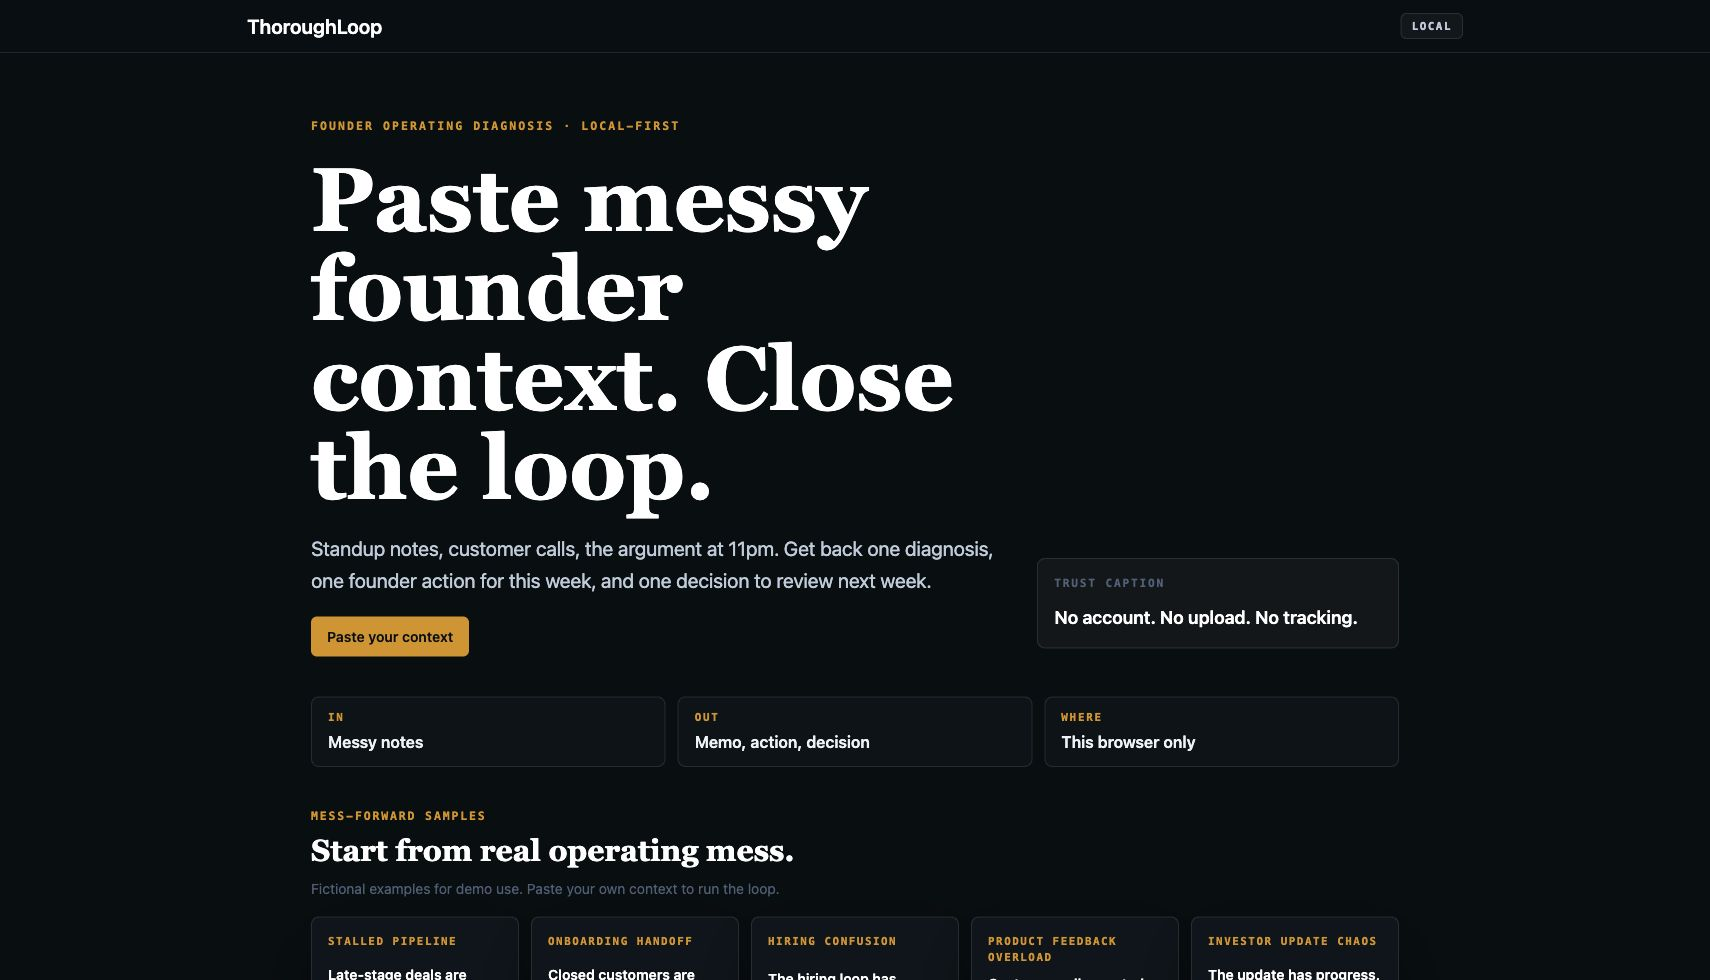
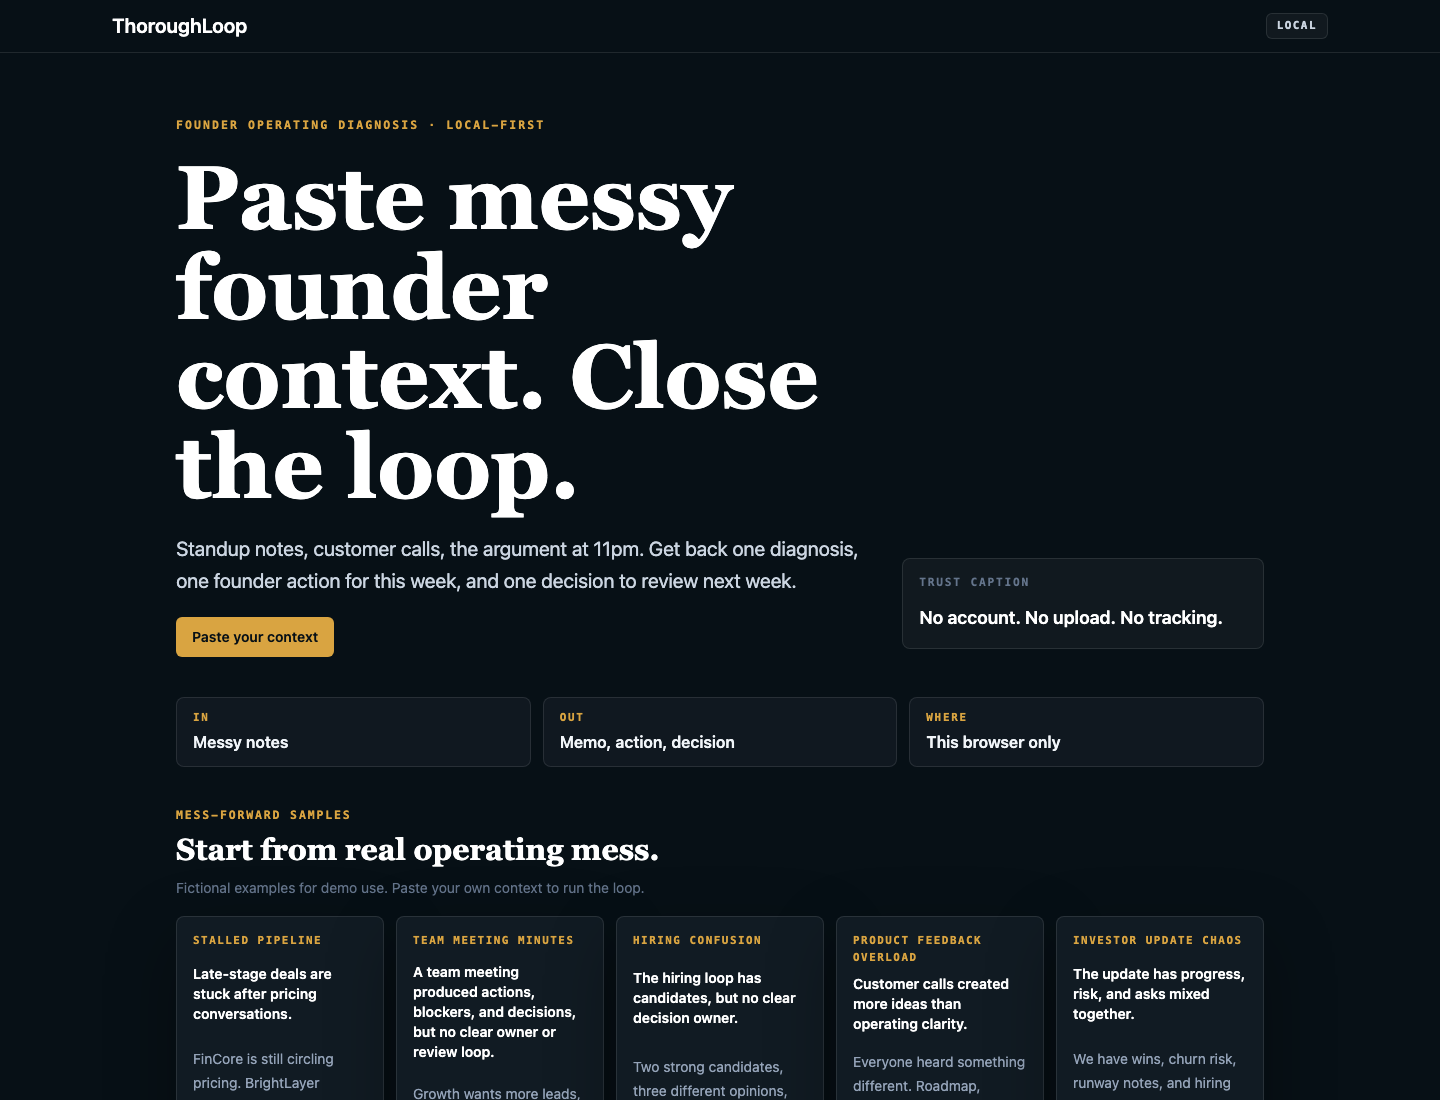
feat: sharpen meeting notes input and evidence copy
Sharpen ThoroughLoop’s manual meeting-notes input path and make deterministic evidence wording less mechanical.

* Rename the meeting-notes source label to Meeting minutes or call notes
* Clarify manual paste helper and placeholder copy for meeting minutes, call notes, decisions, blockers, owners, open questions, follow-ups, and review points
* Rework the meeting sample into fictional team meeting minutes
* Replace internal-sounding evidence labels with operating language such as Operating signals, Named context, and Risk signals
* Add clearer fallback evidence wording for thin notes
* Update copyable memo evidence formatting
* Update core and e2e tests
* Update source-aware context docs
* Refresh walkthrough screenshots
* Preserve local-first, manual-paste, no-integration product boundaries

diff --git a/apps/web/e2e/core-loop.spec.ts b/apps/web/e2e/core-loop.spec.ts
@@ -3,13 +3,19 @@ import { expect, test, type Page } from "@playwright/test";
 const messyFounderContext =
   "FinCore Labs has been stuck in negotiation for 21 days after a pricing concern. BrightLayer AI has no reply after proposal for 12 days. Northstar Ops completed demo but is waiting for review. Founder follow-up is slipping and proposal-stage deals need attention this week.";
 
-async function expectTextOrder(page: Page, firstText: string, secondText: string) {
+async function expectSectionOrder(page: Page, firstTestId: string, secondTestId: string) {
   const order = await page.evaluate(
-    ({ firstText, secondText }) => {
-      const text = document.body.innerText;
-      return text.indexOf(firstText) !== -1 && text.indexOf(secondText) !== -1 && text.indexOf(firstText) < text.indexOf(secondText);
+    ({ firstTestId, secondTestId }) => {
+      const first = document.querySelector(`[data-testid="${firstTestId}"]`);
+      const second = document.querySelector(`[data-testid="${secondTestId}"]`);
+
+      if (!first || !second) {
+        return false;
+      }
+
+      return Boolean(first.compareDocumentPosition(second) & Node.DOCUMENT_POSITION_FOLLOWING);
     },
-    { firstText, secondText }
+    { firstTestId, secondTestId }
   );
 
   expect(order).toBe(true);
@@ -27,6 +33,16 @@ test("founder can complete the ThoroughLoop browser loop", async ({ page }) => {
   await expect(page.getByText("Paste the relevant Notion notes, decisions, or project context.")).toBeVisible();
   await expect(page.getByText("Manual import only. ThoroughLoop does not connect to external tools yet.")).toBeVisible();
   await expect(page.getByText("Public demo note: use fictional or sanitized context. Avoid confidential production data.")).toBeVisible();
+  await page.getByLabel("Where is this context coming from?").selectOption("meeting_notes");
+  await expect(
+    page.getByText(
+      "Paste meeting minutes, call notes, or transcript-style notes. ThoroughLoop will look for actions, decisions, blockers, owners, and follow-up points."
+    )
+  ).toBeVisible();
+  await expect(page.getByTestId("messy-context-input")).toHaveAttribute(
+    "placeholder",
+    "Paste meeting minutes, call notes, decisions, blockers, owners, open questions, follow-ups, or next-review points."
+  );
   await page.getByTestId("context-source-select").selectOption("slack");
   await expect(page.getByText("Paste the relevant Slack messages or thread summary.")).toBeVisible();
   await page.getByTestId("messy-context-input").fill(messyFounderContext);
@@ -40,9 +56,9 @@ test("founder can complete the ThoroughLoop browser loop", async ({ page }) => {
   await expect(page.getByTestId("primary-action-review")).toBeVisible();
   await expect(page.getByTestId("short-diagnosis")).toBeVisible();
   await expect(page.getByTestId("supporting-context")).toBeVisible();
-  await expectTextOrder(page, "This week's action", "Supporting context");
-  await expectTextOrder(page, "Decision to review next week", "Supporting context");
-  await expectTextOrder(page, "Short diagnosis", "Supporting context");
+  await expectSectionOrder(page, "primary-action-review", "short-diagnosis");
+  await expectSectionOrder(page, "primary-action-review", "supporting-context");
+  await expectSectionOrder(page, "short-diagnosis", "supporting-context");
 
   await page.locator("[data-testid='supporting-context'] summary").click();
   await expect(page.getByText("Why this is the bottleneck")).toBeVisible();

diff --git a/packages/core/test/core-logic.test.ts b/packages/core/test/core-logic.test.ts
@@ -5,6 +5,7 @@ import {
   createDiagnosis,
   CONTEXT_SOURCE_OPTIONS,
   DEFAULT_CONTEXT_SOURCE_ID,
+  contextSourceForId,
   contextSourceLabelForId,
   extractCompanyOrDealNames,
   extractRiskSignals,
@@ -109,11 +110,21 @@ describe("context source metadata", () => {
       "Notion page or workspace notes",
       "CRM or sales pipeline notes",
       "Customer feedback",
-      "Meeting notes",
+      "Meeting minutes or call notes",
       "Product requirements or handoff notes",
       "Hiring follow-up notes",
       "Other"
     ]);
+  });
+
+  it("keeps meeting minutes as a manual paste source", () => {
+    const source = contextSourceForId("meeting_notes");
+    const copy = `${source.label} ${source.helperText} ${source.placeholderText ?? ""}`;
+
+    assert.equal(source.label, "Meeting minutes or call notes");
+    assert.match(source.helperText, /Paste meeting minutes, call notes, or transcript-style notes/);
+    assert.match(source.placeholderText ?? "", /decisions, blockers, owners, open questions, follow-ups/);
+    assert.doesNotMatch(copy, /\b(import|sync|upload|connect)\b/i);
   });
 
   it("falls back safely for unknown source ids", () => {
@@ -136,7 +147,7 @@ describe("context source metadata", () => {
     assert.equal(memo.contextSource, "slack");
     assert.equal(action.contextSource, "slack");
     assert.equal(decision.contextSource, "slack");
-    assert.match(memo.evidence, /Source: Slack thread or channel notes/);
+    assert.match(memo.evidence, /Source label: Slack thread or channel notes/);
     assert.match(copy, /Source\nSlack thread or channel notes/);
   });
 
@@ -196,6 +207,10 @@ describe("memo generation", () => {
     assert.equal(memo.owner, "Shubham");
     assert.match(memo.diagnosis, /Revenue Rescue/);
     assert.match(memo.evidence, /Risk signals:/);
+    assert.match(memo.evidence, /Named context: FinCore Labs/);
+    assert.match(memo.evidence, /Operating signals: .*proposal/);
+    assert.match(memo.evidence, /Source label: General founder notes/);
+    assert.doesNotMatch(memo.evidence, /Matched keywords|Extracted companies|Workflow evidence/);
     assert.match(memo.founderAction, /founder-led follow-up/i);
     assert.match(memo.recommendedDecision, /Decide whether/i);
     assert.equal(action.sourceMemoId, memo.id);
@@ -226,6 +241,14 @@ describe("memo generation", () => {
     assert.ok(diagnosisIndex < evidenceIndex);
     assert.ok(memo.assumptionsMade.length > 0);
     assert.ok(copy.length < 5000);
+  });
+
+  it("uses a human-readable evidence fallback for thin notes", () => {
+    const memo = generateFounderMemo(createDiagnosis(""));
+
+    assert.match(memo.evidence, /The notes were too thin to produce strong operating evidence/);
+    assert.match(memo.evidence, /Source label: General founder notes/);
+    assert.doesNotMatch(memo.evidence, /Matched keywords|Extracted companies|Workflow evidence/);
   });
 });
 

diff --git a/apps/web/src/components/HomeLoop.tsx b/apps/web/src/components/HomeLoop.tsx
@@ -69,12 +69,12 @@ const samples: SampleLoop[] = [
   },
   {
     id: "onboarding-handoff",
-    label: "Onboarding handoff",
+    label: "Team meeting minutes",
     sourceId: "meeting_notes",
-    situation: "Closed customers are losing momentum before activation.",
-    preview: "Sales says the customer is ready. Onboarding says requirements changed. Nobody owns the next milestone.",
+    situation: "A team meeting produced actions, blockers, and decisions, but no clear owner or review loop.",
+    preview: "Growth wants more leads, product says onboarding is leaking, and no one owns the review decision.",
     context:
-      "BrightLayer AI is closed-won but onboarding is blocked. Sales promised a fast go-live, onboarding says requirements changed, and the customer success owner is waiting on implementation details. The customer has not activated, the next milestone is unclear, and the founder keeps getting pulled into status calls."
+      "Growth meeting notes: paid campaigns are producing leads, but sales says quality is mixed. Product says onboarding drop-off is still high. Customer success says handoffs are unclear after the first call. The founder asked for one owner, but no one closed the loop. Need to decide whether to fix onboarding first or keep scaling acquisition."
   },
   {
     id: "hiring-confusion",
@@ -187,10 +187,10 @@ function resultCopyForWorkflow(
   const riskSignals = diagnosis.extractedRiskSignals.filter((signal) => !signal.toLowerCase().includes("too thin"));
   const companies = diagnosis.extractedCompaniesOrDeals.length
     ? `Named context: ${diagnosis.extractedCompaniesOrDeals.join(", ")}.`
-    : "No company or deal name was clearly detected.";
+    : "No named company, deal, role, or project was clearly detected.";
   const keywords = diagnosis.matchedKeywords.length
-    ? `Signal cluster: ${diagnosis.matchedKeywords.slice(0, 5).join(", ")}.`
-    : "No strong keyword cluster was detected.";
+    ? `Operating signals: ${diagnosis.matchedKeywords.slice(0, 5).join(", ")}.`
+    : "The notes were too thin to produce strong operating signals.";
   const evidence = [...riskSignals.slice(0, 3), companies, keywords].slice(0, 4);
   const missing = diagnosis.missingContext.slice(0, 4);
   const common = {

diff --git a/packages/core/src/memo.ts b/packages/core/src/memo.ts
@@ -69,14 +69,29 @@ function actionForWorkflow(workflow: WorkflowName, subject: string): string {
 }
 
 function evidenceFromDiagnosis(diagnosis: FounderDiagnosis): string {
-  const companies = diagnosis.extractedCompaniesOrDeals.length
-    ? diagnosis.extractedCompaniesOrDeals.join(", ")
-    : "None detected";
-  const keywords = diagnosis.matchedKeywords.length ? diagnosis.matchedKeywords.join(", ") : "No strong keyword cluster";
-  const signals = diagnosis.extractedRiskSignals.join("; ");
+  const riskSignals = diagnosis.extractedRiskSignals.filter((signal) => !signal.toLowerCase().includes("too thin"));
   const source = contextSourceLabelForId(diagnosis.contextSource);
+  const evidence: string[] = [];
 
-  return `Source: ${source}. Workflow evidence: ${diagnosis.workflow.name}. Matched keywords: ${keywords}. Extracted companies or deal names: ${companies}. Risk signals: ${signals}.`;
+  if (riskSignals.length) {
+    evidence.push(`Risk signals: ${riskSignals.join("; ")}.`);
+  }
+
+  if (diagnosis.extractedCompaniesOrDeals.length) {
+    evidence.push(`Named context: ${diagnosis.extractedCompaniesOrDeals.join(", ")}.`);
+  }
+
+  if (diagnosis.matchedKeywords.length) {
+    evidence.push(`Operating signals: ${diagnosis.matchedKeywords.slice(0, 6).join(", ")}.`);
+  }
+
+  if (!evidence.length) {
+    evidence.push("The notes were too thin to produce strong operating evidence.");
+  }
+
+  evidence.push(`Source label: ${source}.`);
+
+  return evidence.join("\n");
 }
 
 function assumptionsFromMissingContext(diagnosis: FounderDiagnosis): MemoAssumption[] {

diff --git a/apps/web/src/components/DiagnosisResult.tsx b/apps/web/src/components/DiagnosisResult.tsx
@@ -57,15 +57,15 @@ export function DiagnosisPreview({
 
       <div className="mt-5 grid gap-4 md:grid-cols-2">
         <div className="grid gap-2">
-          <p className="text-sm font-semibold text-white">Matched keywords</p>
+          <p className="text-sm font-semibold text-white">Operating signals</p>
           <TagList values={diagnosis.matchedKeywords} emptyLabel="No strong match" />
         </div>
         <div className="grid gap-2">
-          <p className="text-sm font-semibold text-white">Extracted companies or deal names</p>
+          <p className="text-sm font-semibold text-white">Named context</p>
           <TagList values={diagnosis.extractedCompaniesOrDeals} emptyLabel="None detected" />
         </div>
         <div className="grid gap-2">
-          <p className="text-sm font-semibold text-white">Extracted risk signals</p>
+          <p className="text-sm font-semibold text-white">Risk signals</p>
           <TagList values={diagnosis.extractedRiskSignals} emptyLabel="Context is too thin to extract strong risk signals" />
         </div>
         <div className="grid gap-2">

diff --git a/packages/core/src/contextSources.ts b/packages/core/src/contextSources.ts
@@ -34,9 +34,11 @@ export const CONTEXT_SOURCE_OPTIONS = [
   },
   {
     id: "meeting_notes",
-    label: "Meeting notes",
-    helperText: "Paste raw meeting notes or call summaries.",
-    placeholderText: "Paste raw meeting notes, call summaries, open questions, decisions, or owners."
+    label: "Meeting minutes or call notes",
+    helperText:
+      "Paste meeting minutes, call notes, or transcript-style notes. ThoroughLoop will look for actions, decisions, blockers, owners, and follow-up points.",
+    placeholderText:
+      "Paste meeting minutes, call notes, decisions, blockers, owners, open questions, follow-ups, or next-review points."
   },
   {
     id: "requirements_handoff",

diff --git a/README.md b/README.md
@@ -24,7 +24,7 @@ Landing page introducing the founder workflow, local-first boundary, and main ca
 
 ### 2. Choose a founder operating mess
 
-Sample cards show common founder situations such as stalled pipeline, onboarding handoff, hiring confusion, product feedback overload, and investor update chaos.
+Sample cards show common founder situations such as stalled pipeline, team meeting minutes, hiring confusion, product feedback overload, and investor update chaos.
 
 ![Sample cards showing common founder operating messes.](docs/assets/screenshots/02-sample-context-options.png)
 
@@ -122,7 +122,7 @@ After ThoroughLoop:
 5. It saves one decision.
 6. The decision can be reviewed later.
 
-Users can label where pasted context came from, such as Slack, Notion, CRM notes, meeting notes, customer feedback, or requirements handoffs. ThoroughLoop does not read from or update external tools yet.
+Users can label where pasted context came from, such as Slack, Notion, CRM notes, meeting minutes or call notes, customer feedback, or requirements handoffs. ThoroughLoop does not read from or update external tools yet.
 
 A Notion source label means manually pasted Notion context. It is not Notion import or sync.
 

diff --git a/docs/source-aware-context-import.md b/docs/source-aware-context-import.md
@@ -36,7 +36,7 @@ A Notion source label means the user manually pasted Notion notes into the compo
 - Notion page or workspace notes
 - CRM or sales pipeline notes
 - Customer feedback
-- Meeting notes
+- Meeting minutes or call notes
 - Product requirements or handoff notes
 - Hiring follow-up notes
 - Other
@@ -52,6 +52,8 @@ Example:
 - Output: one diagnosis, one founder memo, one founder action, and one decision to review later
 
 The selected label is stored as loop metadata when the user saves the loop.
+
+Meeting minutes or call notes are supported as manually pasted context. The user can paste minutes, call notes, decisions, blockers, owners, open questions, and follow-up points. This is not file upload, meeting recording import, calendar import, or meeting-tool sync.
 
 ## Privacy Boundary
 
